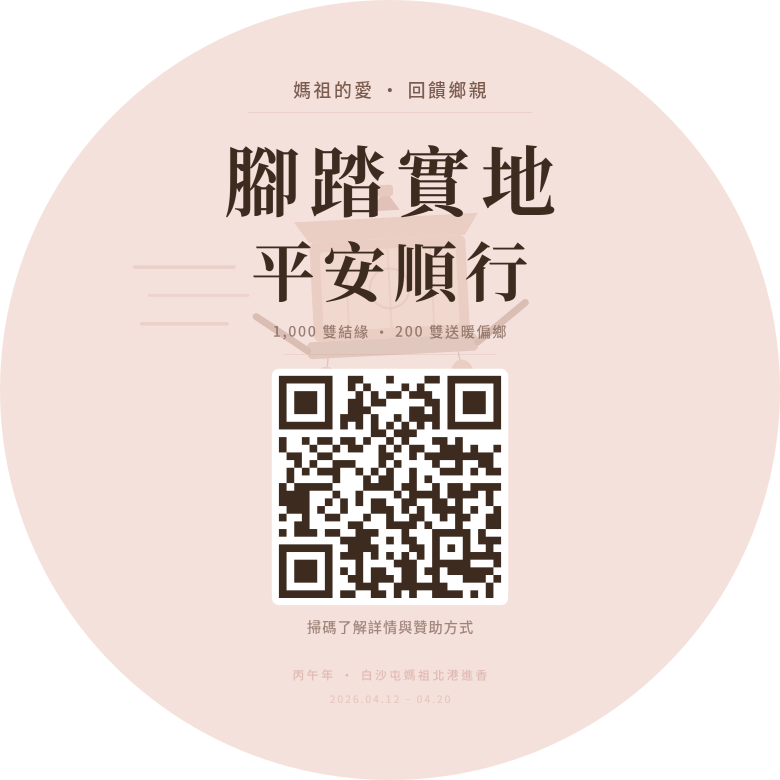
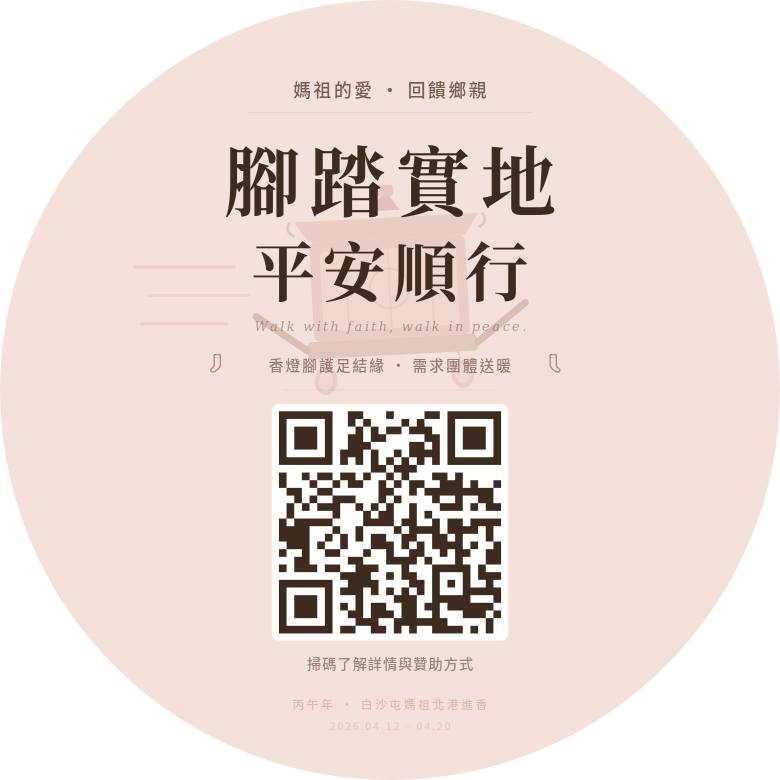
feat: v3 sticker (keyword tagline), tab navigation, wrap-up report section with 5 chapters

Changed region(s): [[0.3385, 0.4, 0.6769, 0.9231], [0.4, 0.8923, 0.4308, 0.9231]]

diff --git a/index.html b/index.html
@@ -195,6 +195,14 @@ section p strong{color:var(--b8)}
 .closing .orn-e .dia{width:5px;height:5px;background:var(--g4);transform:rotate(45deg);opacity:.4}
 
 @media print{.hero{min-height:auto;padding:40px 24px}.cta{background:var(--surface);color:var(--b8);border:2px solid var(--b7)}}
+
+/* Tab Navigation */
+.tab-nav{display:flex;justify-content:center;gap:0;margin:0 auto;max-width:680px;padding:0 24px}
+.tab-btn{flex:1;padding:14px 0;text-align:center;font-size:13px;letter-spacing:3px;color:var(--b4);cursor:pointer;border-bottom:2px solid transparent;transition:all .2s;background:none;border-top:none;border-left:none;border-right:none;font-family:var(--sans);font-weight:500}
+.tab-btn.active{color:var(--b7);border-bottom-color:var(--g5)}
+.tab-btn:hover{color:var(--b7)}
+.tab-panel{display:none}
+.tab-panel.active{display:block}
 </style>
 </head>
 <body>
@@ -216,6 +224,18 @@ section p strong{color:var(--b8)}
 </div></div>
 
 <div class="wrap">
+
+
+<!-- Tab Navigation -->
+<div style="background:var(--cream);padding:20px 0 0;border-bottom:1px solid var(--b1);position:sticky;top:0;z-index:100">
+  <div class="tab-nav">
+    <button class="tab-btn active" onclick="switchTab('main')">活動介紹</button>
+    <button class="tab-btn" onclick="switchTab('report')">結案報告</button>
+  </div>
+</div>
+
+<!-- TAB: 活動介紹 -->
+<div class="tab-panel active" id="tab-main">
 
 <!-- 緣起 -->
 <section>
@@ -276,7 +296,7 @@ section p strong{color:var(--b8)}
 <section>
   <div class="sl">結緣貼紙</div>
   <h2>每雙襪子，都帶著這張貼紙上路</h2>
-  <p>6 公分圓形透明貼紙，貼在每雙襪子的包裝上。掃描 QR Code 即可回到本頁了解活動全貌。</p>
+  <p>6 公分圓形透明貼紙，貼在每雙襪子的包裝上。為香燈腳護足結緣，也為偏鄉需求團體送暖。掃描 QR Code 即可回到本頁了解活動全貌。</p>
   <div style="display:flex;justify-content:center;padding:24px 0">
     <img src="sticker.png" alt="白沙屯媽祖進香結緣貼紙" style="width:220px;height:220px;border-radius:50%;box-shadow:0 4px 24px rgba(0,0,0,.08)">
   </div>
@@ -405,8 +425,108 @@ section p strong{color:var(--b8)}
 </div>
 <div style="height:40px"></div>
 </div>
+</div><!-- end tab-main -->
+
+<!-- TAB: 結案報告 -->
+<div class="tab-panel" id="tab-report">
+<div class="wrap" style="padding-top:40px">
+
+<section style="border-top:none">
+  <div class="sl">結案報告</div>
+  <h2>進香圓滿，感恩回報</h2>
+  <p>本報告將於 2026 年 4 月底前完成更新，完整記錄每一筆善款的流向和每一雙襪子的去處。</p>
+  <div class="co">最後更新：待進香結束後更新（預計 2026/04/30 前）</div>
+</section>
+
+<!-- Section 1: 活動總覽 -->
+<section>
+  <div class="sl">壹</div>
+  <h2>活動總覽</h2>
+  <div class="ic">
+    <div class="ic-item"><div class="lb">結緣總數</div><div class="vl">待更新</div></div>
+    <div class="ic-item"><div class="lb">發放天數</div><div class="vl">待更新</div></div>
+    <div class="ic-item"><div class="lb">路線覆蓋</div><div class="vl">苗栗 → 台中 → 彰化 → 雲林</div></div>
+    <div class="ic-item"><div class="lb">團隊人數</div><div class="vl">3 人（分批步行）</div></div>
+  </div>
+  <p style="color:var(--b5);font-size:13px;margin-top:16px">＊ 本區將記錄實際發出雙數、發放日期與路段、團隊分工等基本資訊。</p>
+</section>
+
+<!-- Section 2: 收支明細 -->
+<section>
+  <div class="sl">貳</div>
+  <h2>收支明細</h2>
+  <p>每一筆收入與支出，全數透明公開。</p>
+  <div class="bc">
+    <div class="br"><span>贊助收入（含匿名）</span><span class="am">待更新</span></div>
+    <div class="br"><span>襪子採購成本</span><span class="am">待更新</span></div>
+    <div class="br"><span>結緣貼紙印製</span><span class="am">待更新</span></div>
+    <div class="br"><span>包裝材料</span><span class="am">待更新</span></div>
+    <div class="br"><span>偏鄉捐贈物資 / 善款</span><span class="am">待更新</span></div>
+    <div class="bt"><span>結餘 / 處理方式</span><span>待更新</span></div>
+  </div>
+  <p style="color:var(--b5);font-size:13px;margin-top:16px">＊ 每一位贊助者的姓名（或匿名代號）與金額將逐筆列出。結餘款項將捐贈給沿線偏鄉社福團體。</p>
+</section>
+
+<!-- Section 3: 偏鄉捐贈紀錄 -->
+<section>
+  <div class="sl">參</div>
+  <h2>偏鄉捐贈紀錄</h2>
+  <p>物資與善款的具體去處，附上對接單位與簽收憑證。</p>
+  <div class="ol">
+    <div class="oi"><div class="mk"></div><div><div class="on">華山基金會 沿線天使站</div><div class="od">捐贈數量 / 金額：待更新　｜　簽收憑證：待補</div></div></div>
+    <div class="oi"><div class="mk"></div><div><div class="on">芳苑 / 褒忠鄉社區關懷據點</div><div class="od">捐贈數量 / 金額：待更新　｜　簽收憑證：待補</div></div></div>
+    <div class="oi"><div class="mk"></div><div><div class="on">雲林聖心社會關懷協會</div><div class="od">捐贈數量 / 金額：待更新　｜　簽收憑證：待補</div></div></div>
+  </div>
+  <p style="color:var(--b5);font-size:13px;margin-top:16px">＊ 具體對接單位及數量將於進香結束後確認，捐款收據或物資簽收照片將附於此處。</p>
+</section>
+
+<!-- Section 4: 現場紀錄 -->
+<section>
+  <div class="sl">肆</div>
+  <h2>現場紀錄</h2>
+  <p>進香路上的結緣瞬間，以及送到偏鄉長輩手中的溫暖畫面。</p>
+  <div style="background:var(--parchment);border-radius:10px;padding:40px 24px;text-align:center;margin:20px 0">
+    <div style="font-size:36px;margin-bottom:12px;opacity:.4">📷</div>
+    <p style="color:var(--b4);font-size:13px;margin:0">照片將於進香期間及結束後更新<br>預計 10–15 張精選紀錄</p>
+  </div>
+  <p style="color:var(--b5);font-size:13px">＊ 包含：每日發放現場、信徒收到襪子的表情、偏鄉長輩收到物資的畫面、團隊合照等。</p>
+</section>
+
+<!-- Section 5: 感恩名單 -->
+<section>
+  <div class="sl">伍</div>
+  <h2>感恩名單</h2>
+  <p>每一位贊助者的名字，都在這份名單上，跟著媽祖走完全程。</p>
+  <div style="background:var(--parchment);border-radius:10px;padding:28px 32px;margin:20px 0;position:relative">
+    <div style="position:absolute;top:0;left:0;right:0;height:3px;background:linear-gradient(90deg,var(--g4),var(--g7),var(--g4));border-radius:10px 10px 0 0"></div>
+    <p style="font-size:14px;color:var(--b7);text-align:center;line-height:2">待進香結束後公布完整名單<br><span style="font-size:12px;color:var(--b4)">（依贊助者意願選擇具名或匿名）</span></p>
+  </div>
+  <p style="color:var(--b5);font-size:13px">＊ 名單同時手寫一份紙本，8 天全程隨身攜帶，在北港朝天宮進火儀式時向媽祖稟報。</p>
+</section>
+
+</div><!-- end wrap -->
+
+<!-- Report closing -->
+<div class="closing">
+  <blockquote>「腳踏實地，平安順行。」</blockquote>
+  <div class="by"><a href="https://www.linkedin.com/in/aurora-lin-615056a7/" target="_blank" class="fn-link">Aurora Lin</a> · <a href="https://www.linkedin.com/in/rockie-esg-comms-digitaltransformation/" target="_blank" class="fn-link">Rockie Lin</a>　｜　2026 白沙屯媽祖丙午年北港進香</div>
+</div>
+<div style="height:40px"></div>
+</div><!-- end tab-report -->
 
 <script>
+
+// Tab switching
+function switchTab(tab) {
+  document.querySelectorAll('.tab-panel').forEach(p => p.classList.remove('active'));
+  document.querySelectorAll('.tab-btn').forEach(b => b.classList.remove('active'));
+  document.getElementById('tab-' + tab).classList.add('active');
+  event.target.classList.add('active');
+  window.scrollTo({top: document.querySelector('.tab-nav').offsetTop - 10, behavior: 'smooth'});
+}
+// Check URL hash for direct link to report tab
+if (window.location.hash === '#report') { setTimeout(() => switchTab('report'), 100); }
+
 // ============================
 // CONFIG — 請替換以下兩個 URL
 // ============================
